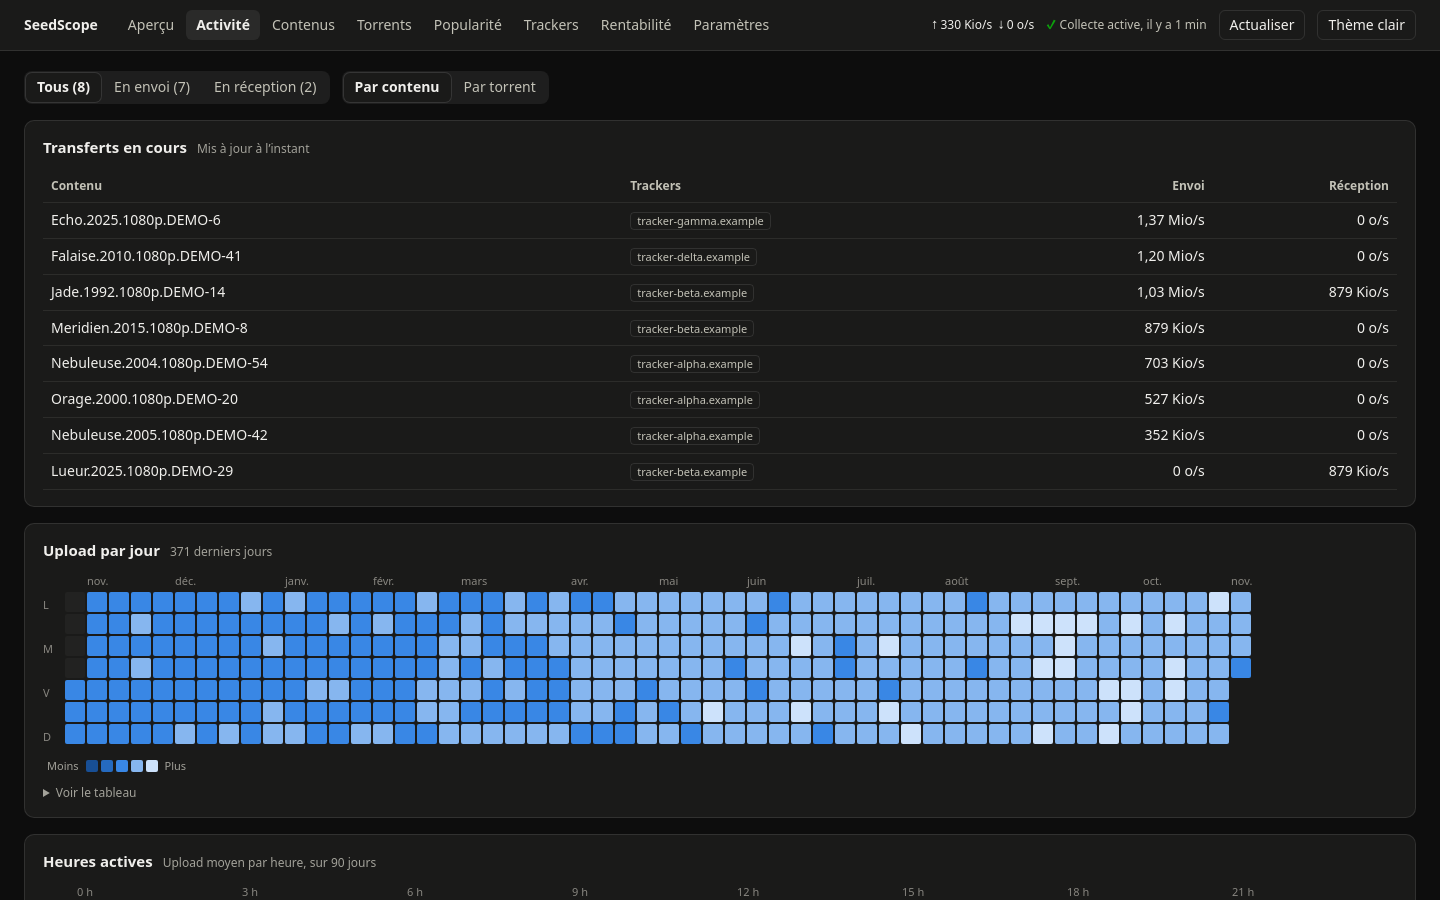
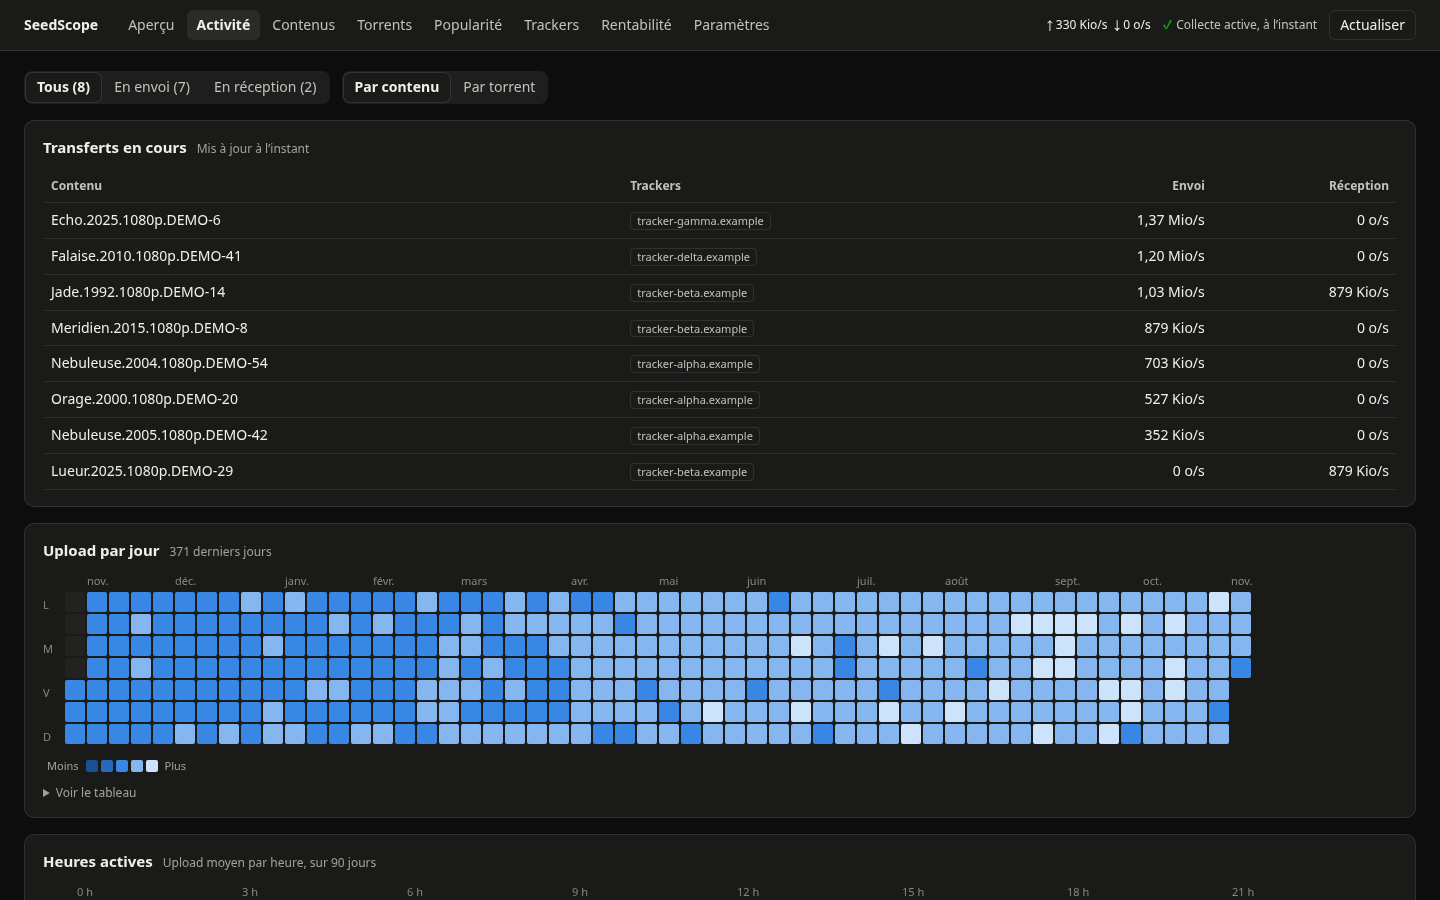
Remove theme button from the top bar
The light/dark mode is now set in Settings, with the palette.
Refresh the README screenshots, which still showed the button.

diff --git a/seedscope/static/app.js b/seedscope/static/app.js
@@ -1114,20 +1114,10 @@ function initRefresh() {
   });
 }
 
-function isDark() {
-  const theme = document.documentElement.dataset.theme;
-  return (theme || (matchMedia('(prefers-color-scheme: dark)').matches ? 'dark' : 'light')) === 'dark';
-}
-
-function syncThemeButton() {
-  document.getElementById('theme').textContent = isDark() ? 'Thème clair' : 'Thème sombre';
-}
-
 function setThemeMode(mode) {
   if (mode === 'system') delete document.documentElement.dataset.theme;
   else document.documentElement.dataset.theme = mode;
   store(THEME_KEY, mode === 'system' ? null : mode);
-  syncThemeButton();
 }
 
 function setPalette(id) {
@@ -1141,11 +1131,6 @@ function initTheme() {
   if (saved) document.documentElement.dataset.theme = saved;
   const palette = stored(PALETTE_KEY);
   if (PALETTES.some((item) => item.id === palette)) setPalette(palette);
-  syncThemeButton();
-  document.getElementById('theme').addEventListener('click', () => {
-    setThemeMode(isDark() ? 'light' : 'dark');
-    if (currentRoute() === '/parametres') render();
-  });
 }
 
 document.getElementById('nav').append(...NAV.map(([path, text]) => h('a', { href: `#${path}`, text })));

diff --git a/seedscope/static/index.html b/seedscope/static/index.html
@@ -15,7 +15,6 @@
       <span id="speeds" class="speeds" aria-label="Débits en cours"></span>
       <span id="status" class="status" role="status"></span>
       <button id="refresh" type="button" class="ghost">Actualiser</button>
-      <button id="theme" type="button" class="ghost">Thème</button>
     </div>
   </header>
   <main id="view" tabindex="-1"></main>
